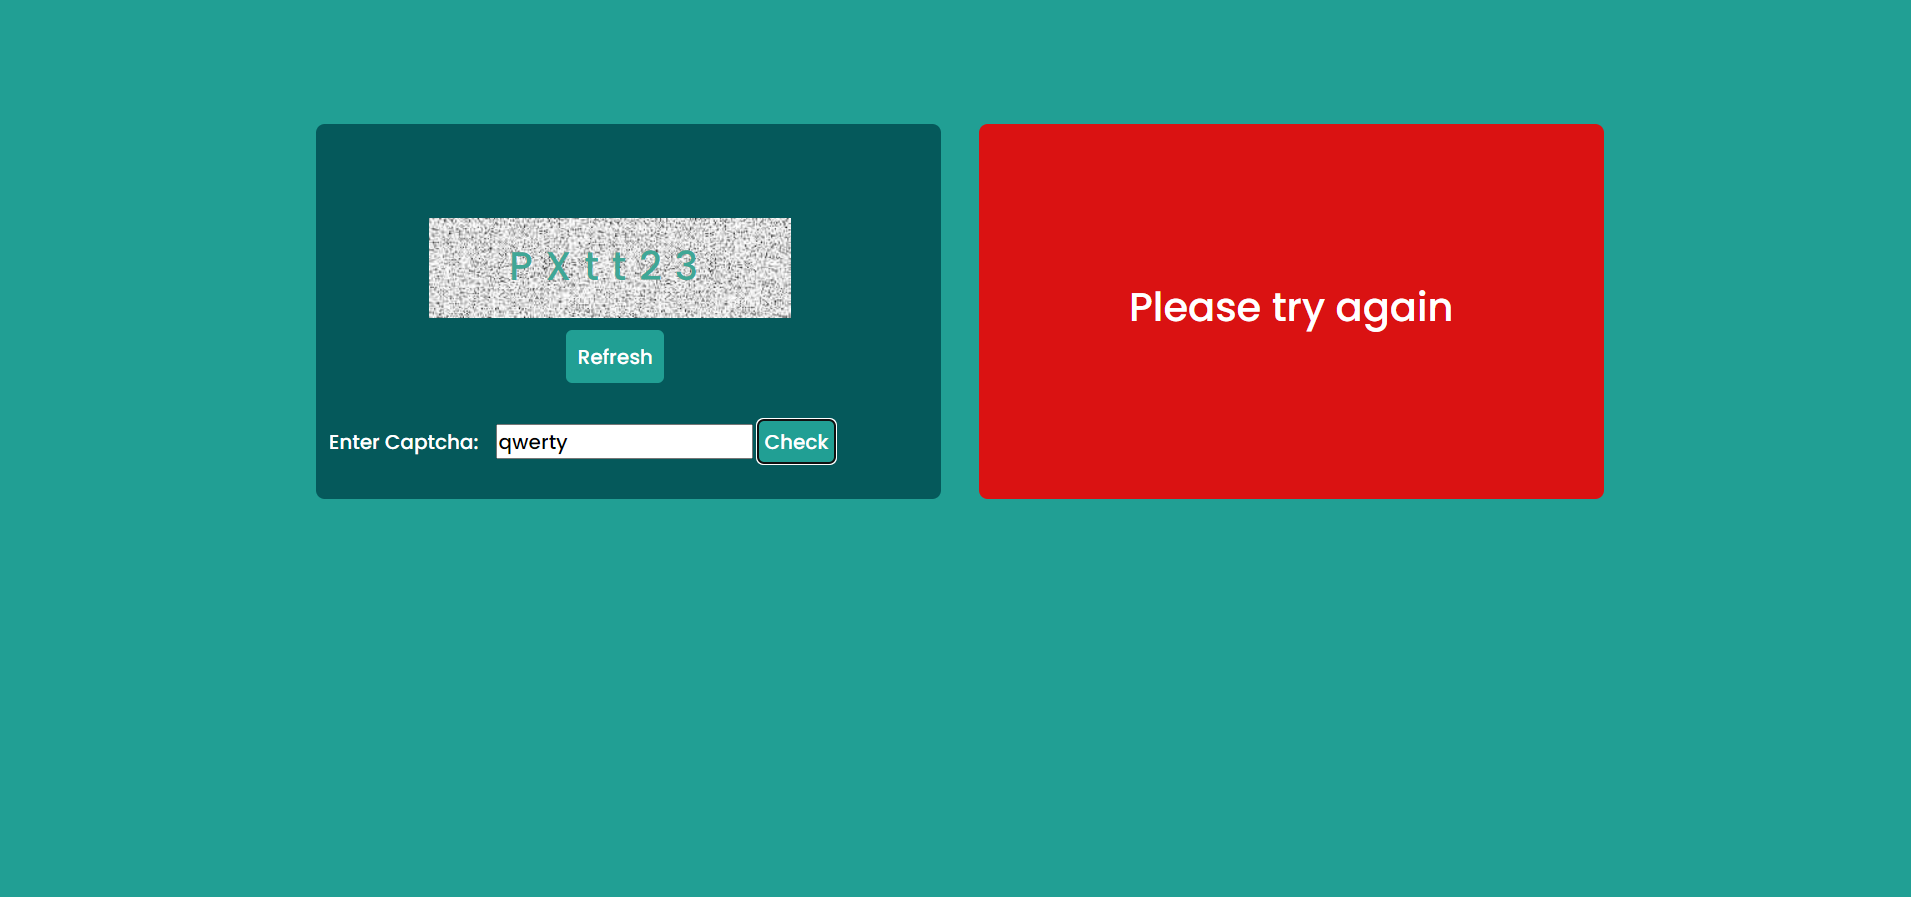
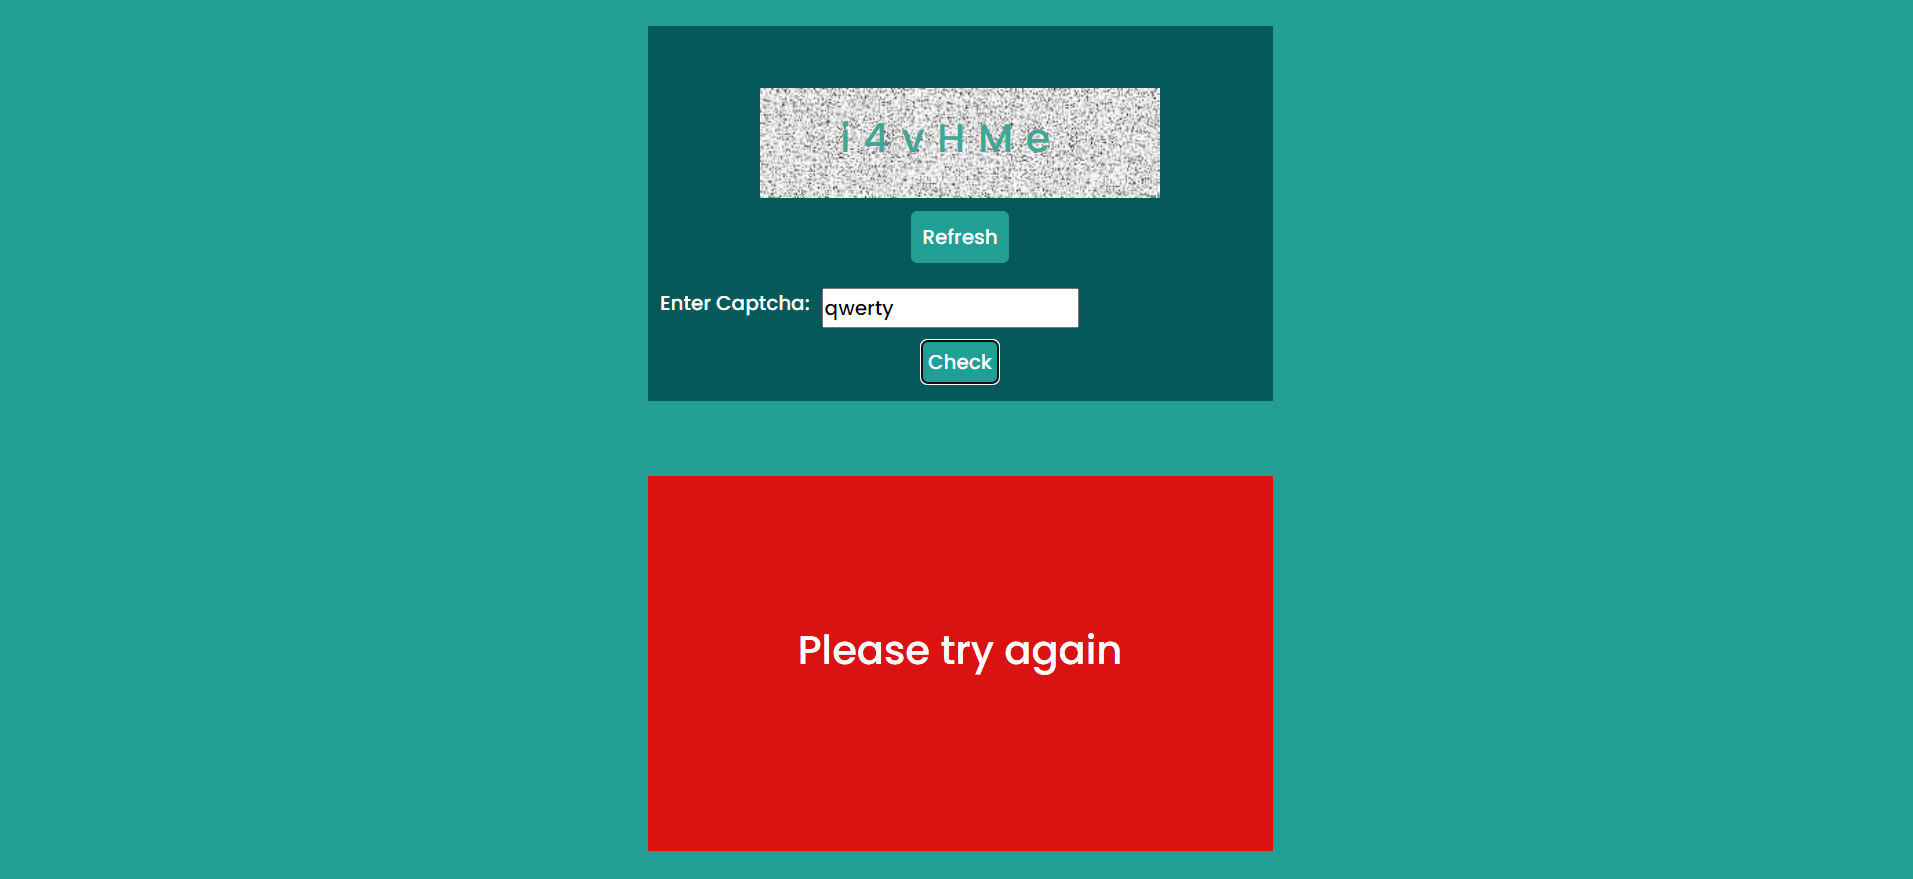
Added Responsiveness to Captcha Generator

diff --git a/Captcha Generator/styles.css b/Captcha Generator/styles.css
@@ -6,70 +6,65 @@
 }
 
 
-
 body{
-    display: flex;
-    justify-content: center;
-    align-items: center;
+    
     background-color: #219F94 !important;
 }
 
-.row{
-    margin: 100px auto;
-    /* margin: 50px auto 0; */
-}
 
-.card1, .card2{
+.container{
     display: flex;
     justify-content: center;
-    align-items: center;
-    /* margin-left: 100px; */
-    border-radius: 7px;
+    flex-wrap: wrap;
 }
-
 .card1{
-    display: inline-block;
+    border-radius: 10px;
     background: #05595B;
-    width:500px;
+    width: 500px;
     height: 300px;
-}
-.card2{
-    
-    background: #05595B;
-    width:500px;
-    height: 300px;
-}
-.captcha-img{
-   margin: 15% 18% 0;
-   position: relative;
-}
-.captcha-img .captcha-txt{
-    position: absolute;
-    top: 18%;
-    left: 20%;
-    letter-spacing: 10px;
-   font-size: 32px;
-   color: #3FA796;
-    /* transform: translate(-50%, -50%); */
-}
-.captcha-input{
-    margin-top: 30px;
-}
-label{
-    padding-right: 10px;
-    padding-left: 10px;
-    color: #fff;
+    margin: 30px;
 }
 
-.refresh{
+.card2{
+    border-radius: 10px;
+    background: #05595B;
+    height: 300px;
+    width: 500px;
+    margin: 30px;
+}
+
+.captcha-img{
+    margin: 10% 18% 0;
+    position: relative;
+ }
+ .captcha-img img{
+     width: 100%;
+ }
+ .captcha-img .captcha-txt{
+     position: absolute;
+     height: 100%;
+     width:200px;
+     top: 18%;
+     left: 20%;
+     letter-spacing: 10px;
+    font-size: 32px;
+    color: #3FA796;
+     /* transform: translate(-50%, -50%); */
+ }
+.ref-btn{
+    display: flex;
+    margin: 0 auto;
+}
+
+ .refresh{
     outline: none;
     border: none;
     background: #219F94;
     padding: 9px;
     border-radius: 5px;
     color: #fff;
-    margin-top: 10px;
-    margin-left: 200px;
+    margin: 10px auto 0;
+   
     transition-duration: 0.4s;
 }
 .refresh:hover{
@@ -77,33 +72,51 @@ label{
     background:#05595B ;
     border: 1px solid white;
 }
-.result{
+.captcha-input{
+    display: flex;
+    flex-wrap: wrap;
+    padding-top:20px ;
+}
+
+label{
+    padding-right: 10px;
+    padding-left: 10px;
     color: #fff;
 }
+.check-btn{
+    display: flex;
+    
+}
 .check{
+   
     outline: none;
     border: none;
     background: #219F94;
     color: #fff;
     padding: 5px;
     border-radius: 5px;
+    margin: 10px auto 5px;
+}
+.result{
+    
+    text-align: center;
+}
+.result h2{
+    color: #fff;
+    margin-top: 120px;
 }
 
+@media screen and (max-width:427px) {
+.captcha-img img{
+    width:100%;
+    height: 100%;
+}
 
-@media screen and (max-width:1028px) {
-    .captcha-img,.refresh, .captcha-input{
-       position: relative;
-       top: 10%;
-    }
-    
-    .card1, .card2{
-        display: block;
-        margin: 50px auto 0;
-    }
-    .result{
-       position: relative;
-       left:110px;
-       top:130px
-    }
+.captcha-img .captcha-txt{
+    top:20%;
+   left:20%;
+    font-size: 22px;
+}
+
     
 }

diff --git a/Captcha Generator/index.html b/Captcha Generator/index.html
@@ -15,35 +15,36 @@
 </head>
 <body>
     
-    <div class="row">
-        <div class="col">
-            <div class="card1">
-                <div class="captcha-img">
-                    <img src="captcha.jpg" alt="Captcha">
-                    <span class="captcha-txt"></span>
-                    
-                </div>
-                <button class="refresh">Refresh</button>
-                <div class="captcha-input">
-                    <label >Enter Captcha: </label>
-                    <input type="text" maxlength="6" required>
-                    <button class="check">Check</button>
-                </div>
-                
-            </div>
-    
+ 
+
+<div class="container">
+    <div class="card1">
+        <div class="captcha-img">
+            <img src="captcha.jpg" alt="Captcha">
+            <span class="captcha-txt"></span>
+            
         </div>
-        <div class="col">
-            <div class="card2">
-                    <div class="result">
-                        <h2></h2>
-                    </div>
-            </div>
+        <div class="ref-btn">
+            <button class="refresh">Refresh</button>
         </div>
+       
+        <div class="captcha-input">
+            <label >Enter Captcha: </label>
+            <input type="text" maxlength="6" required>
+               
+        </div>  
+        <div class="check-btn">
+            <button class="check">Check</button> 
+        </div> 
         
+                
     </div>
-
-
+    <div class="card2">
+        <div class="result">
+            <h2></h2>
+        </div>
+    </div>
+</div>
 
 
    

diff --git a/Captcha Generator/script.js b/Captcha Generator/script.js
@@ -32,7 +32,7 @@ check.addEventListener("click", e => {
     result.style.display = "block";
     let inputVal = inputField.value;
     if (inputVal == captcha.innerText) {
-        card.style.background = "green"
+        card.style.background = "green";
 
         result.innerText = "Captcha verified";
         setTimeout(() => {
@@ -40,6 +40,7 @@ check.addEventListener("click", e => {
             inputField.value = "";
             captcha.innerText = "";
             result.innerText = "";
+            card.style.background = "#05595B";
             getCaptcha();
         }, 4000)
     } else {
